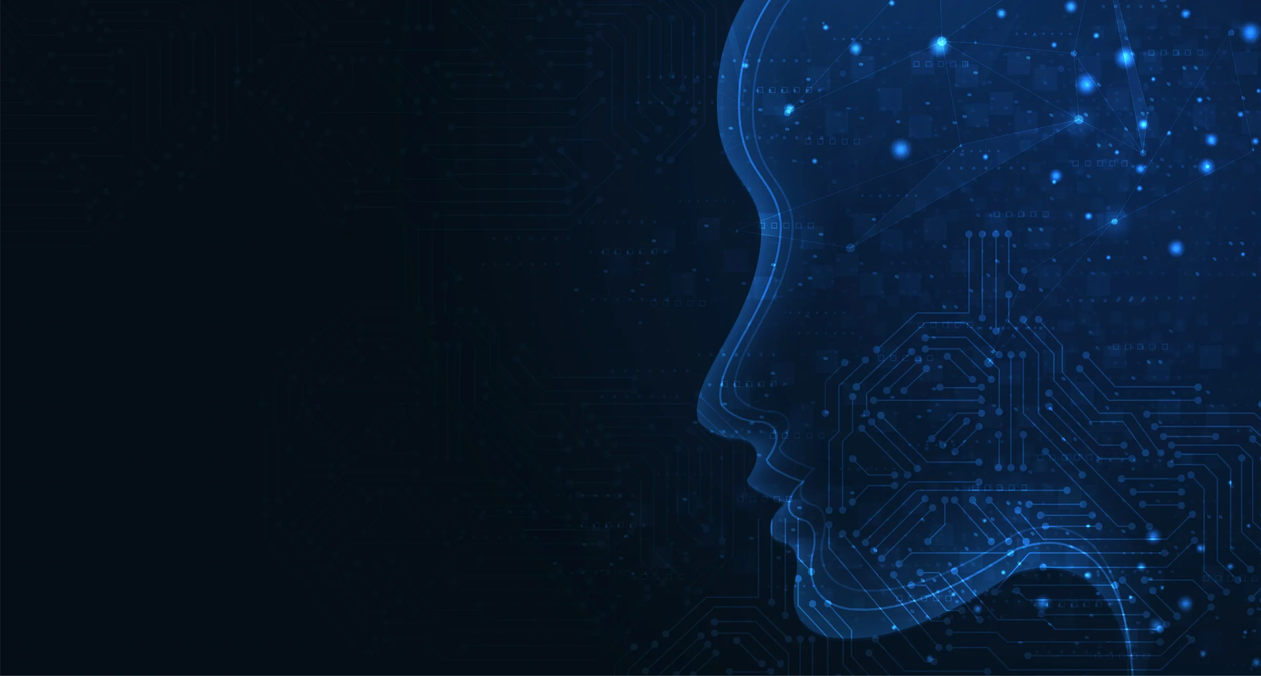
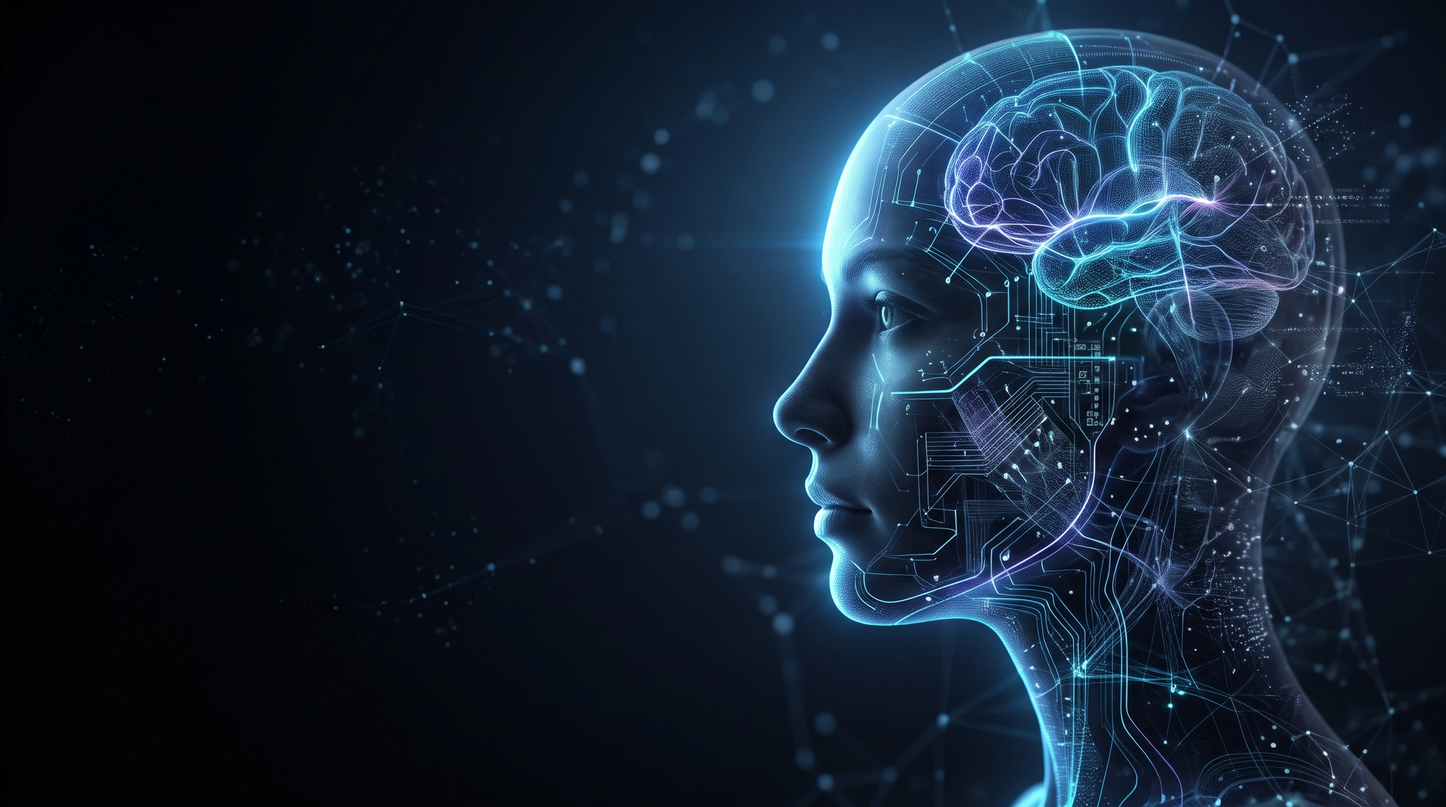
Reusable hero blend; apply to Responsible AI and About

diff --git a/src/styles.css b/src/styles.css
@@ -330,9 +330,7 @@
 
 /* Responsible AI hero: show the full image height on the right, without cropping */
 /* (object-position needs !important to beat the inline position set from content.js) */
-.ph.ph-soft .ph-bg { background: #040B15; }
 .ph.ph-soft .ph-bg img { object-fit: contain; object-position: right center !important; filter: brightness(1.15) contrast(1.05); }
-.ph.ph-soft .ph-bg::after { background: linear-gradient(90deg, #040B15 0%, rgba(4,11,21,0.6) 30%, transparent 55%), linear-gradient(0deg, rgba(11,11,12,0.55) 0%, transparent 28%); }
 @media (max-width: 960px) {
   .ph.ph-soft .ph-bg img { object-fit: cover; object-position: 82% 50% !important; }
 }
@@ -646,23 +644,22 @@ body:has(.hx) .site-header.over-hero .in > * { border-left-color: transparent !i
             mask-composite: intersect; }
 }
 
-/* About hero: blend the image into the hero background (no visible edge, one consistent tone).
-   #011123 = the darkest pixels at the left edge of about-hero.webp (sampled with a canvas). */
-.ph-about { background: #011123 !important; }
-.ph-about .ph-bg { background: #011123; }
-.ph-about .ph-bg img {
+/* page hero blend: the image fades into a background of the image's own darkest tone.
+   Set the tone per page with PageHero's `tone` prop (it becomes --ph-tone on the section). */
+.ph.ph-blend { background: var(--ph-tone, #070B12) !important; }
+.ph.ph-blend .ph-bg { background: var(--ph-tone, #070B12) !important; }
+.ph.ph-blend .ph-bg img {
   -webkit-mask-image:
-    linear-gradient(90deg, transparent 0%, #000 28%, #000 100%),
+    linear-gradient(90deg, transparent 0%, #000 30%, #000 100%),
     linear-gradient(180deg, transparent 0%, #000 12%, #000 88%, transparent 100%);
   -webkit-mask-composite: source-in;
           mask-image:
-    linear-gradient(90deg, transparent 0%, #000 28%, #000 100%),
+    linear-gradient(90deg, transparent 0%, #000 30%, #000 100%),
     linear-gradient(180deg, transparent 0%, #000 12%, #000 88%, transparent 100%);
           mask-composite: intersect;
 }
-/* keep the left side dark behind the text, in the same tone */
-.ph-about .ph-bg::after {
+.ph.ph-blend .ph-bg::after {
   background:
-    linear-gradient(90deg, #011123 0%, rgba(1,17,35,0.85) 35%, rgba(1,17,35,0.2) 65%, rgba(1,17,35,0) 80%),
-    linear-gradient(0deg, rgba(1,17,35,0.85) 0%, rgba(1,17,35,0) 35%) !important;
+    linear-gradient(90deg, var(--ph-tone, #070B12) 0%, color-mix(in srgb, var(--ph-tone, #070B12) 80%, transparent) 35%, transparent 70%),
+    linear-gradient(0deg, color-mix(in srgb, var(--ph-tone, #070B12) 85%, transparent) 0%, transparent 35%) !important;
 }

diff --git a/src/components/Blocks.jsx b/src/components/Blocks.jsx
@@ -6,8 +6,9 @@ import { BRAND } from '../data/content'
 // Cinematic page hero shared by all inner pages (same style as the homepage hero, shorter).
 // image.video (optional): muted looping background clip, with image.src as its poster; visitors who
 // prefer reduced motion keep the still image.
+// tone (optional): the image's darkest edge colour, used by the "ph-blend" class as the hero background.
 // alive: the still image gets a slow drift, a light sweep, floating particles and a gentle mouse parallax.
-export function PageHero({ crumb, label, title, lead, image, className = '', alive = false, children }) {
+export function PageHero({ crumb, label, title, lead, image, className = '', alive = false, tone, children }) {
   const video = image.video && !window.matchMedia('(prefers-reduced-motion: reduce)').matches
   const bgRef = useRef(null)
   useEffect(() => {
@@ -20,7 +21,7 @@ export function PageHero({ crumb, label, title, lead, image, className = '', ali
     return () => { window.removeEventListener('pointermove', onMove); cancelAnimationFrame(raf) }
   }, [alive])
   return (
-    <section className={`ph ${alive ? 'ph--alive ' : ''}${className}`} aria-labelledby="page-title">
+    <section className={`ph ${alive ? 'ph--alive ' : ''}${className}`} style={tone ? { '--ph-tone': tone } : undefined} aria-labelledby="page-title">
       <div className="ph-bg" aria-hidden="true" ref={bgRef}>
         {video
           ? <video src={image.video} poster={image.src} autoPlay muted loop playsInline preload="auto" style={{ objectPosition: image.pos }} />

diff --git a/src/pages/ResponsibleAI.jsx b/src/pages/ResponsibleAI.jsx
@@ -6,7 +6,7 @@ import { PageHero, CtaBand } from '../components/Blocks'
 export default function ResponsibleAI() {
   return (
     <main>
-      <PageHero crumb="Responsible AI" className="ph-soft" title={RESPONSIBLE.title} lead={RESPONSIBLE.intro[0]} image={RESPONSIBLE.image} />
+      <PageHero crumb="Responsible AI" className="ph-soft ph-blend" tone="#000000" title={RESPONSIBLE.title} lead={RESPONSIBLE.intro[0]} image={RESPONSIBLE.image} />
 
       {/* like homepage section 04: numbered rows left, image right */}
       <Section tone="light" aria-labelledby="r1">

diff --git a/src/pages/About.jsx b/src/pages/About.jsx
@@ -7,7 +7,7 @@ import { PageHero, CtaBand } from '../components/Blocks'
 export default function About() {
   return (
     <main>
-      <PageHero crumb="About" title={ABOUT.title} lead={ABOUT.intro[0]} image={ABOUT.image} alive className="ph-about" />
+      <PageHero crumb="About" title={ABOUT.title} lead={ABOUT.intro[0]} image={ABOUT.image} alive className="ph-about ph-blend" tone="#001122" />
 
       {/* like homepage section 02: image left, text right */}
       <Section tone="light" aria-labelledby="a1">
